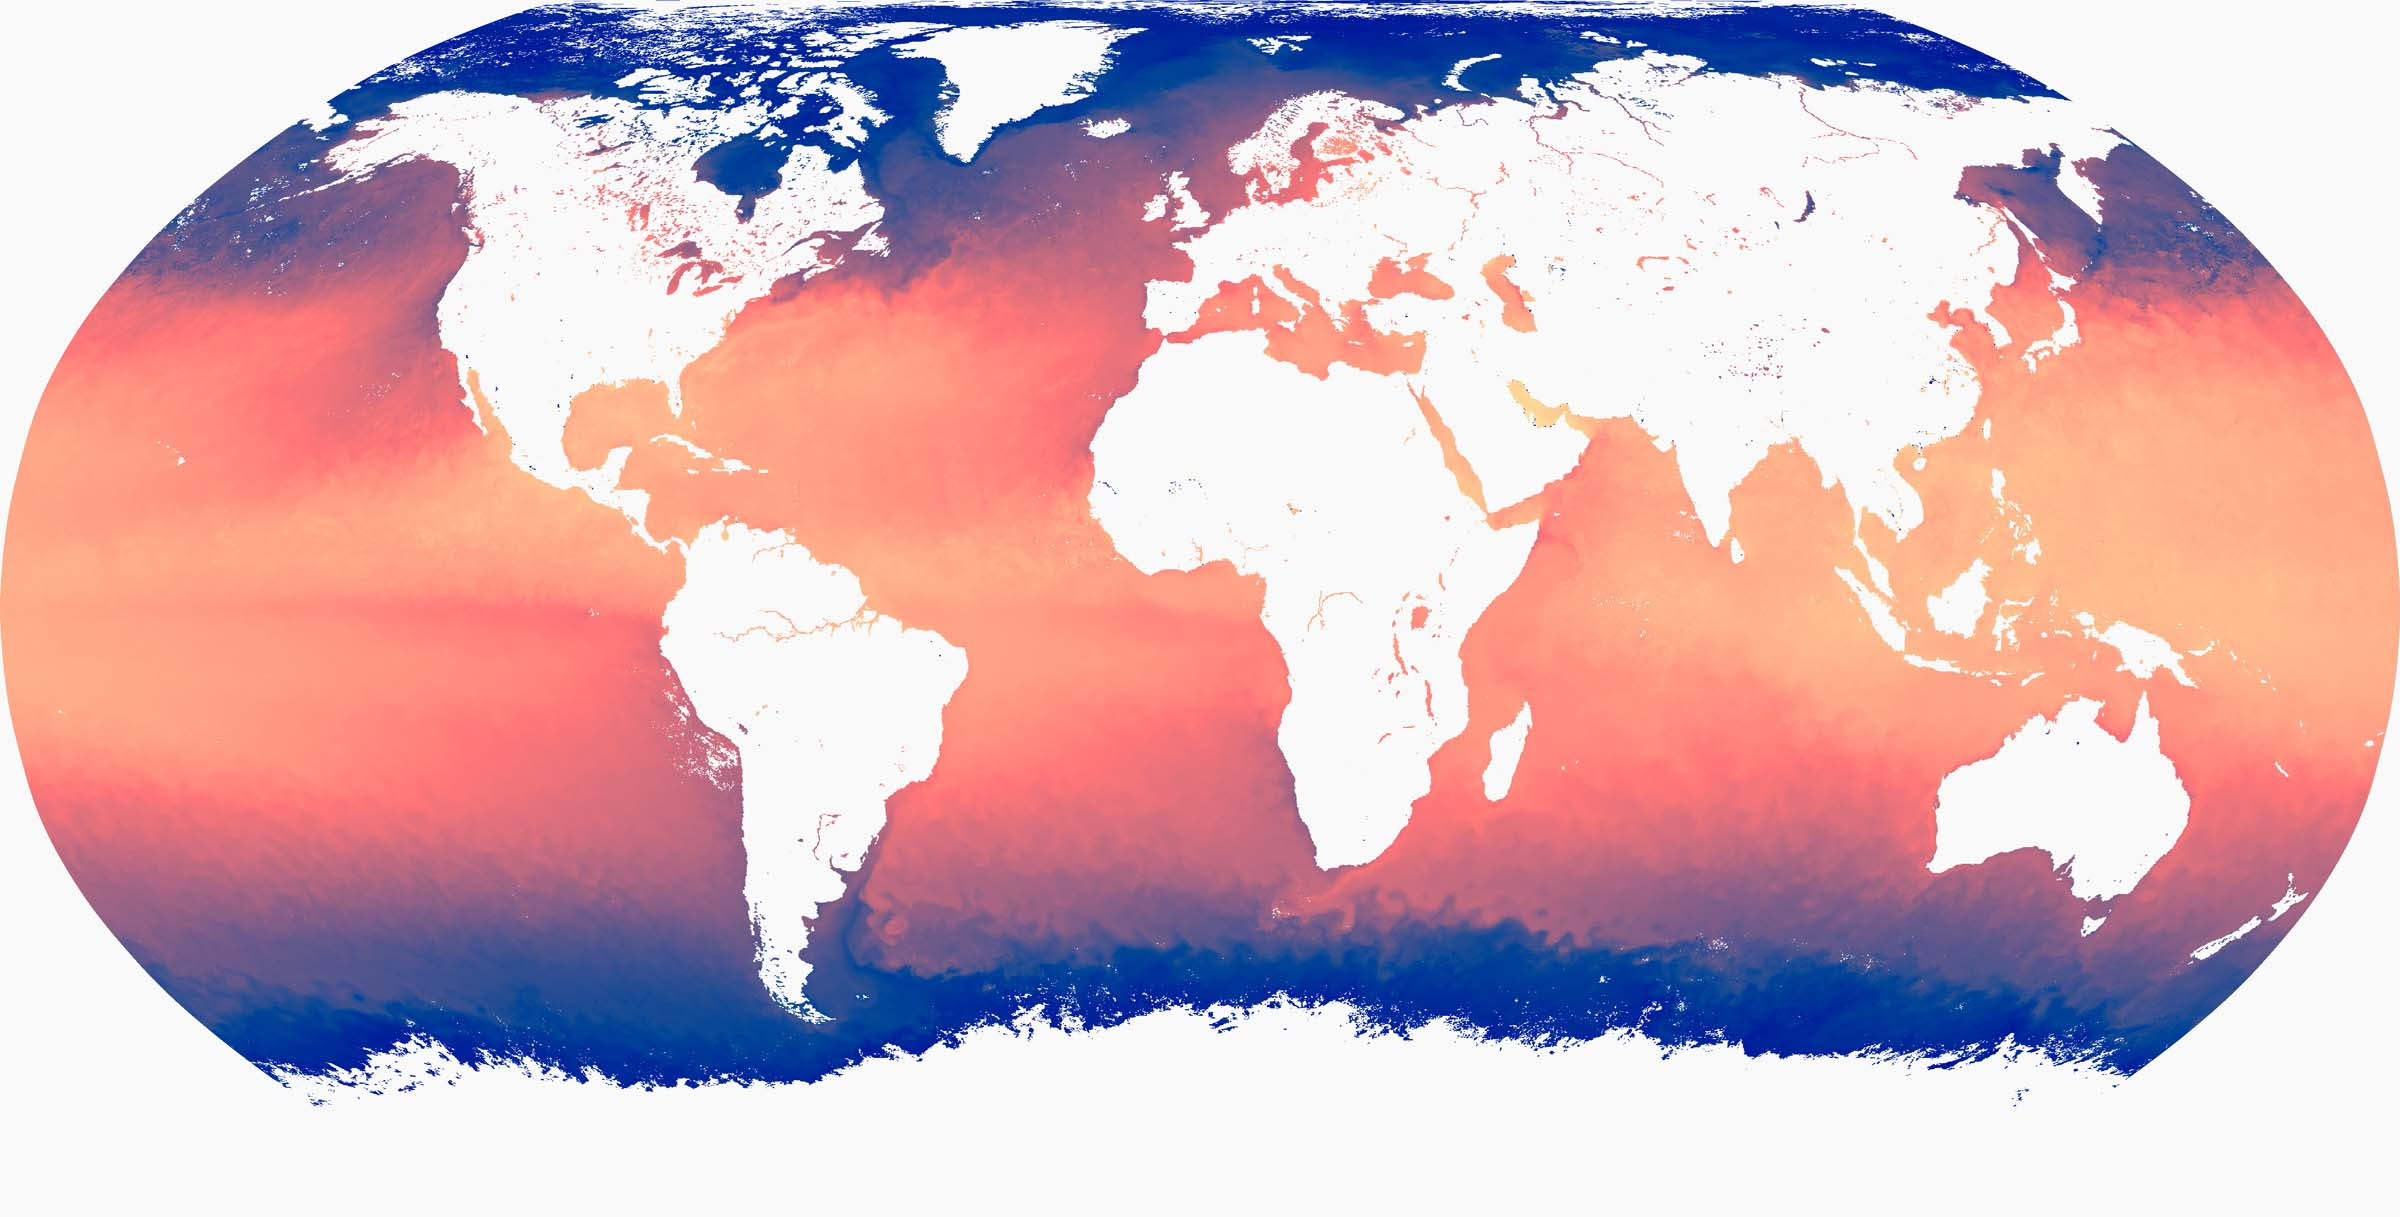
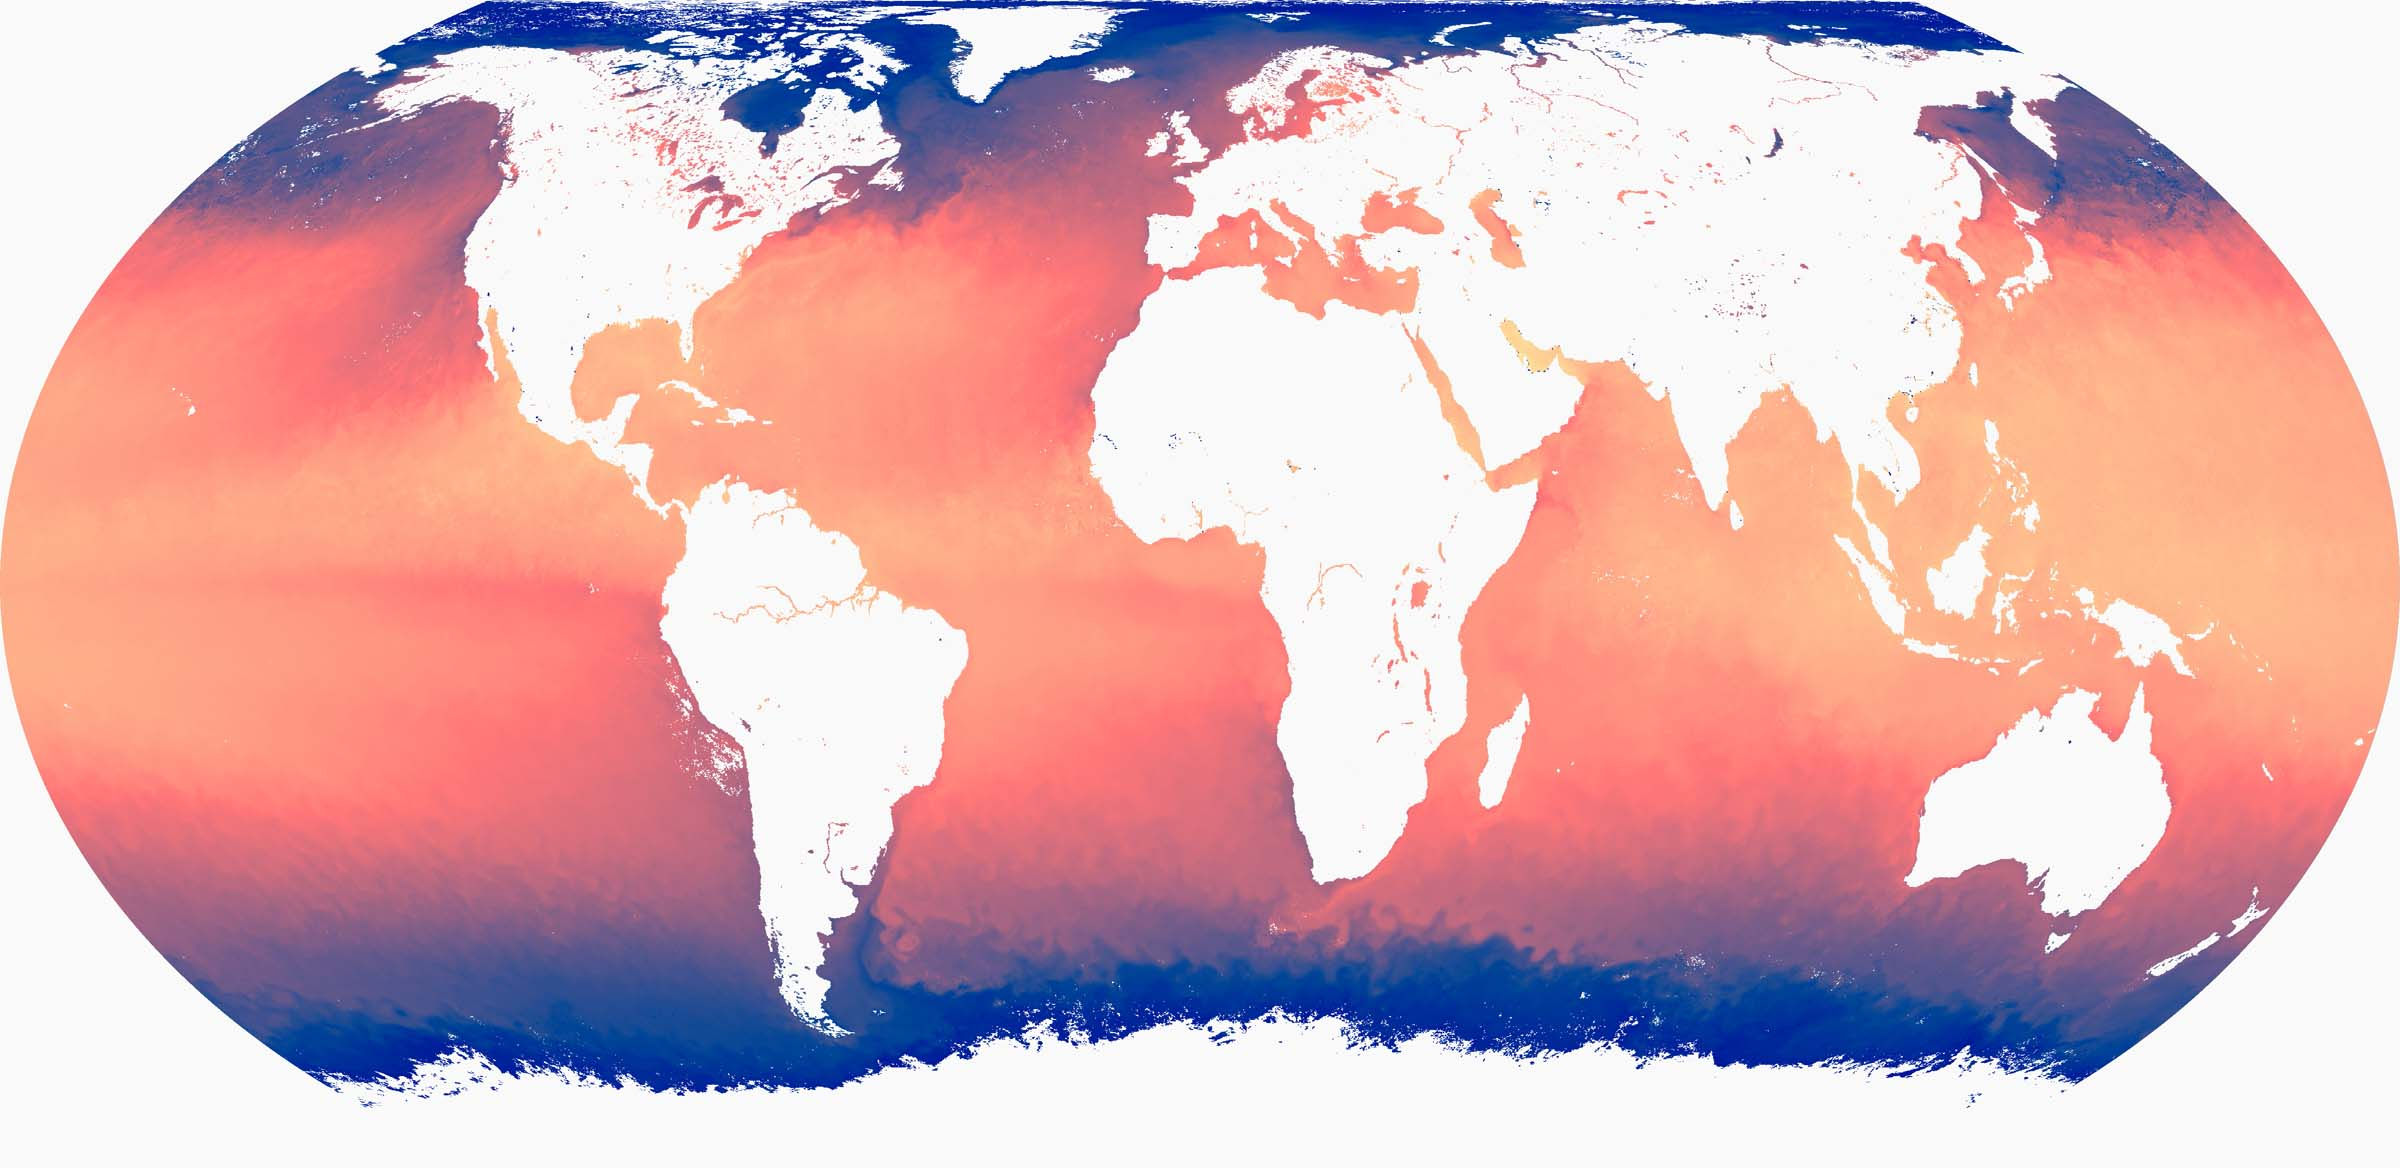
ADD long country names on cartograms, ADD reprojected maps

diff --git a/app/src/components/maps/CartogramNode.svelte b/app/src/components/maps/CartogramNode.svelte
@@ -18,8 +18,8 @@
   on:focus
   on:blur
 >
-  {#if d.width > 100}
-    <span class="country-text" class:showtext={datasetSelected && !transitioning}>{d.short}</span>
+  {#if d.width > 80}
+    <span class="country-text" class:showtext={datasetSelected && !transitioning}>{d.name}</span>
   {/if}
 </div>
 
